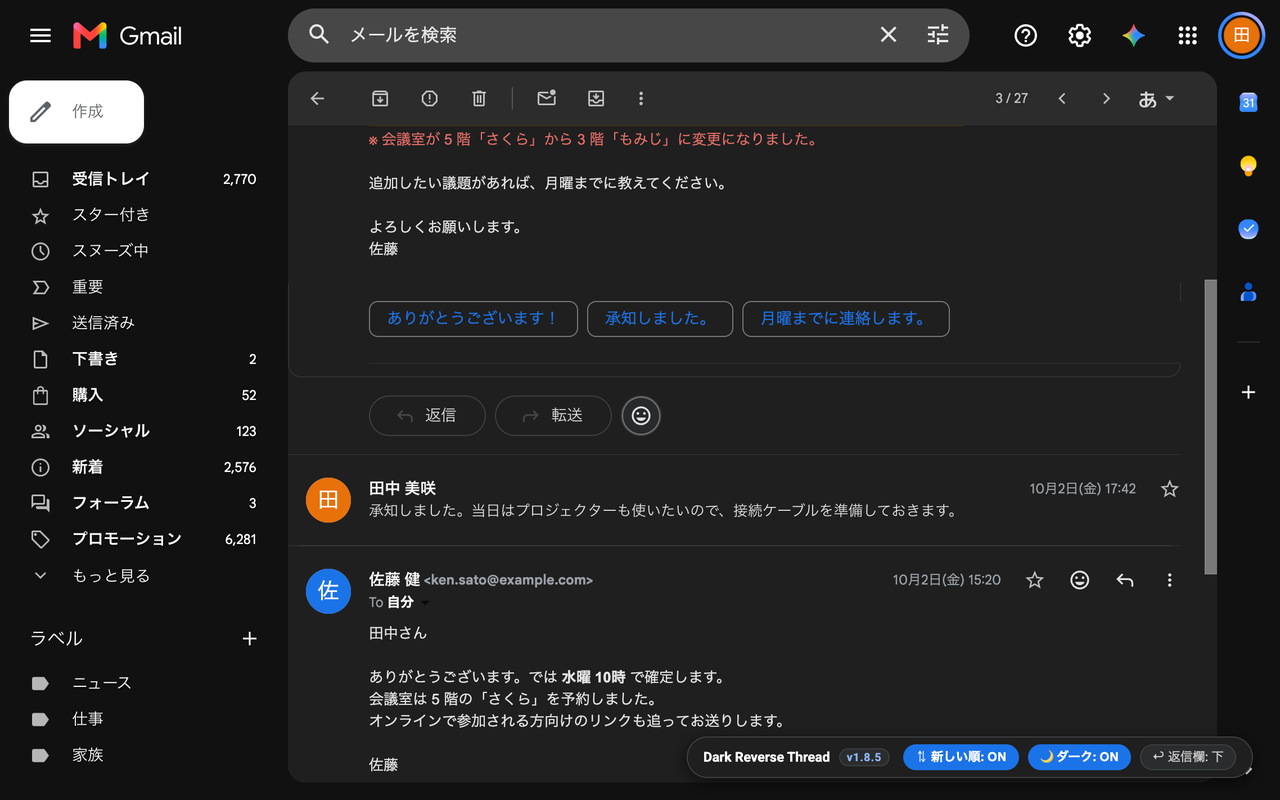
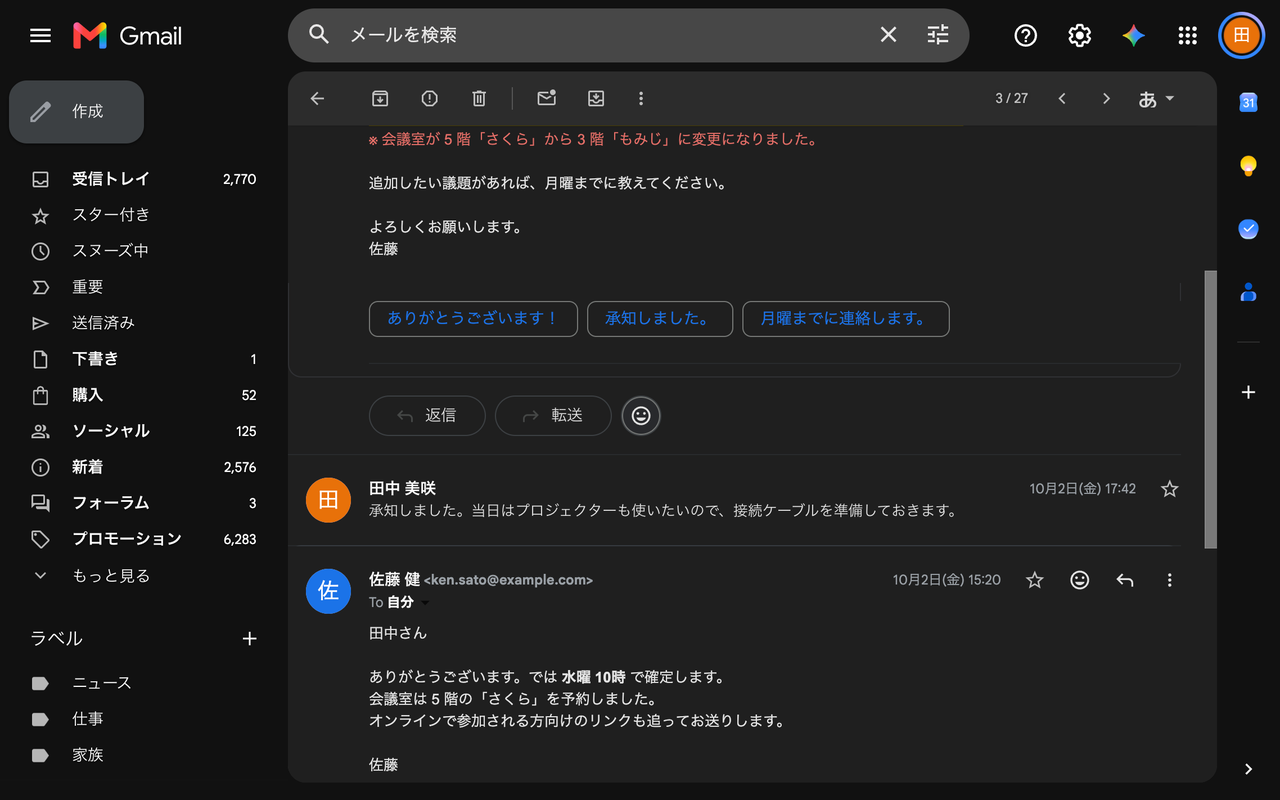
Refresh Japanese store screenshots and align listing text with current behavior
Screenshots no longer show the quick bar (now off by default) and show
the dark Compose button. The listing and README now mention menus and
the Compose button instead of claiming the sidebar is untouched.

diff --git a/README.md b/README.md
@@ -14,8 +14,8 @@ A lightweight Chrome extension (Manifest V3) for Gmail: a dark mode for threads,
    - 日本語: 最新のメッセージがスレッド最上部に並ぶように自動で並び替え、スレッドを開くと最新メッセージの位置（先頭）を表示します。
    - English: Reverses conversation threads so the newest messages appear at the very top, and opens each thread scrolled to the newest message.
 2. **マテリアルダークモード / Material Dark Theme**
-   - 日本語: Gmail のダークテーマに馴染むマテリアルダーク調（#1f1f1f / #28292c / #303134）に統一し、目に優しく洗練された表示を提供。新規作成ウィンドウ（右下・全画面）も暗く表示します。受信トレイ・サイドバー・ヘッダーには干渉せず、Gmail本体のテーマ設定をそのまま使います。
-   - English: Uses a Material Dark palette that matches Gmail's own dark theme (#1f1f1f / #28292c / #303134) for an eye-friendly, native feel. Applied to the conversation view and the compose window (docked or full screen) only — the inbox list, sidebar and header are left to Gmail's own theme.
+   - 日本語: Gmail のダークテーマに馴染むマテリアルダーク調（#1f1f1f / #28292c / #303134）に統一し、目に優しく洗練された表示を提供。新規作成ウィンドウ（右下・全画面）、スレッドとツールバーから開くメニュー、作成ボタンも暗く表示します。受信トレイの一覧・サイドバー・ヘッダーはそれ以外は干渉せず、Gmail本体のテーマ設定をそのまま使います。
+   - English: Uses a Material Dark palette that matches Gmail's own dark theme (#1f1f1f / #28292c / #303134) for an eye-friendly, native feel. Applied to the conversation view, the compose window (docked or full screen), menus opened from the thread or toolbar, and the Compose button — the rest of the inbox list, sidebar and header is left to Gmail's own theme.
 3. **本文白飛びの根本解消 / Direct Email Body Darkening**
    - 日本語: HTMLメールの文字色・背景色を、色相と彩度を保ったまま明るさだけ暗い背景向けに調整（黒文字→明るい灰色、白背景→暗色、赤字や黄色のハイライトは色味を残す）。画像やロゴは本来の色を保護し、透過画像（黒いロゴなど）の背後には元のメールでの背景色を敷いて見えるように。印刷時は元の色で出力。
    - English: Adapts HTML email text and background colors for dark mode by remapping only their lightness, keeping the original hue and saturation (black text becomes light gray, white backgrounds turn dark, red text and highlights keep their color). Images keep their colors, transparent ones (e.g. dark logos) get their original backdrop back so they stay visible, and printing uses the original colors.
